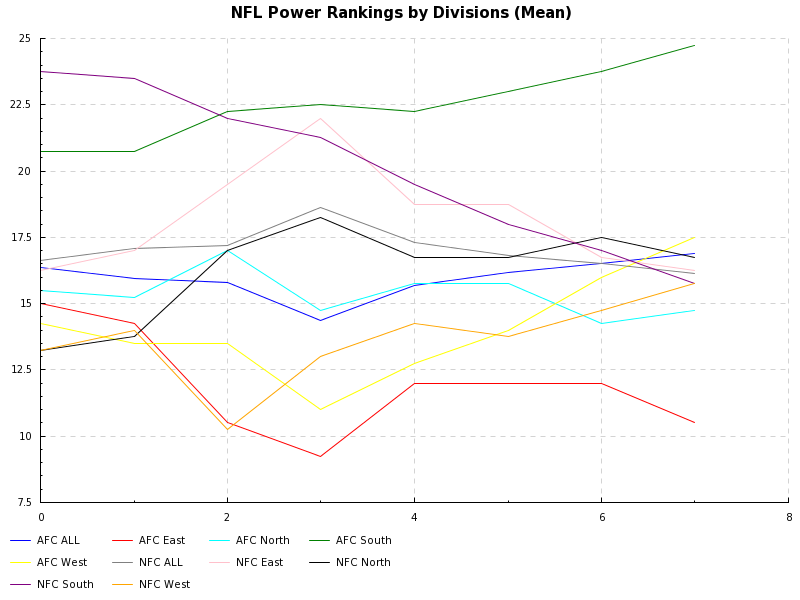
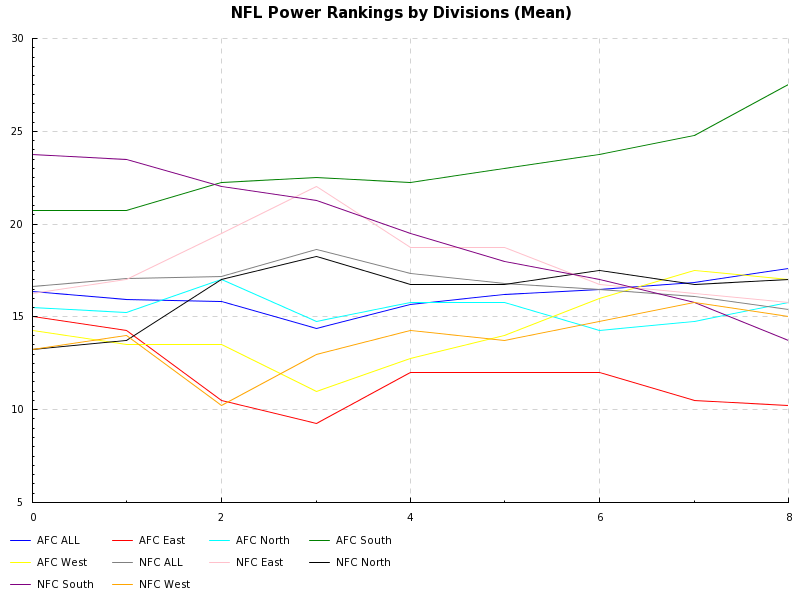
week 8.

diff --git a/README.md b/README.md
@@ -1,5 +1,22 @@
 ![average](https://github.com/mfine/nfl-divisions-power-rankings/blob/master/RESULTS-average.png)
 ![std dev](https://github.com/mfine/nfl-divisions-power-rankings/blob/master/RESULTS-std-dev.png)
+### Week-8
+
+```
+Division         Mean    Std Dev
+--------         ----    -------
+AFC East        10.25       6.61
+NFC South       13.75       9.12
+NFC West        15.00       5.52
+NFC ALL         15.38       8.26
+AFC North       15.75      10.62
+NFC East        15.75       4.49
+AFC West        17.00       8.12
+NFC North       17.00      11.55
+AFC ALL         17.62       9.99
+AFC South       27.50       4.56
+```
+
 ### Week-7
 
 ```
